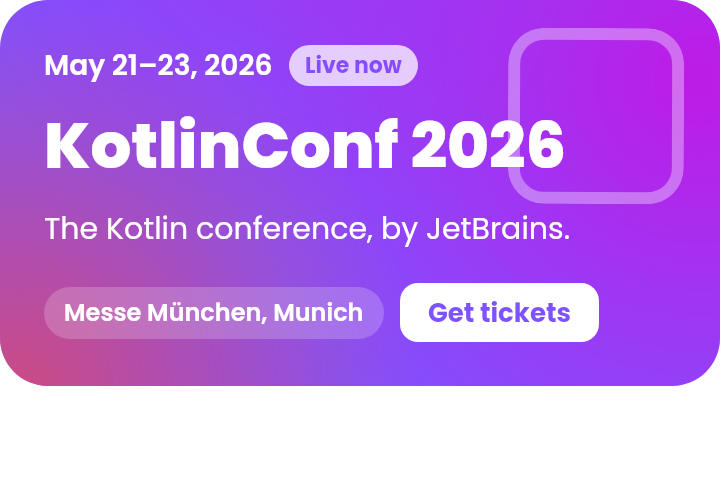
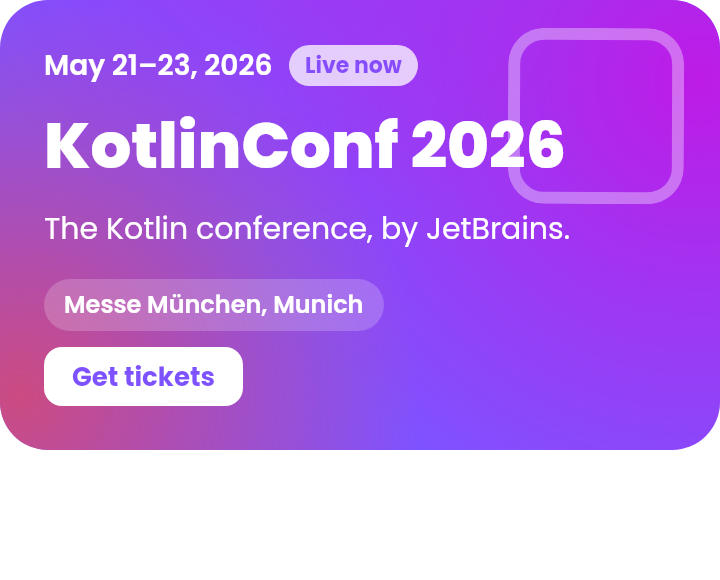
fix(livery): keep KotlinConf's tickets button clear of a long venue
The venue chip and the tickets button shared a row, so a long venue pushed the button out of the
card. They now sit on lines of their own, and the header is 290dp so both fit with the long
example (now with a tickets URL).

Claude-Session: https://claude.ai/code/session_017xSuvobFYXdQ2QMpahMagX

diff --git a/livery-catalog/src/main/kotlin/dev/johnoreilly/confetti/livery/KotlinConfDesigns.kt b/livery-catalog/src/main/kotlin/dev/johnoreilly/confetti/livery/KotlinConfDesigns.kt
@@ -49,7 +49,7 @@ val KotlinConfDesigns: List<DesignDef> = designs(
     promo = { KotlinConfPromo() },
     // Poppins' tall line height: at the contracts' limits (their `long` examples) a two-line name,
     // title, tagline or body needs the room for the row below it (location, tag, sessions, CTA).
-    headerHeightDp = 250,
+    headerHeightDp = 290,
     sessionHeightDp = 170,
     speakerHeightDp = 260,
     promoHeightDp = 275,
@@ -110,10 +110,11 @@ fun KotlinConfHeader() {
             }
             Label(input(C.name), onBrand, size = 32, weight = FontWeight.Black, maxLines = 2)
             Label(input(C.tagline), onBrand, size = 15, weight = FontWeight.Normal, maxLines = 1)
-            RemoteRow(
-                modifier = RemoteModifier.padding(top = 10.rdp),
-                horizontalArrangement = RemoteArrangement.spacedBy(8.rdp),
-                verticalAlignment = RemoteAlignment.CenterVertically,
+            // The venue and the tickets button on lines of their own: side by side, a long venue
+            // pushed the button out of the card.
+            RemoteColumn(
+                modifier = RemoteModifier.padding(top = 8.rdp),
+                verticalArrangement = RemoteArrangement.spacedBy(8.rdp),
             ) {
                 Chip(input(C.location), onBrand.copy(alpha = 0.2f.rf), onBrand)
                 // Only when the app has somewhere to send people: no URL, no button.
